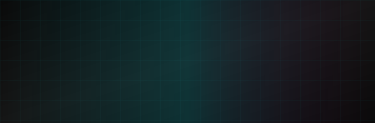
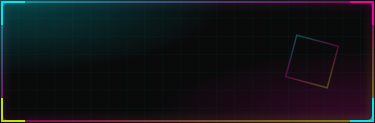
Update Apple Wallet assets with branded ShiftCard design
- Strip with gradient border, corner accents, grid pattern
- Breaking square element matching web design
- Icon with gradient border and L7 mark
- Captures the premium ShiftCard aesthetic

diff --git a/scripts/generate-apple-wallet-assets.js b/scripts/generate-apple-wallet-assets.js
@@ -1,0 +1,262 @@
+#!/usr/bin/env node
+
+/**
+ * Generate Apple Wallet image assets for ShiftCards
+ *
+ * Creates required images:
+ * - icon.png (29x29 @1x, 58x58 @2x, 87x87 @3x)
+ * - logo.png (160x50 @1x, 320x100 @2x)
+ * - strip.png (375x123 @1x, 750x246 @2x)
+ *
+ * Usage: node scripts/generate-apple-wallet-assets.js
+ */
+
+const sharp = require('sharp')
+const fs = require('fs')
+const path = require('path')
+
+// L7 Shift brand colors
+const COLORS = {
+  voidBlack: '#0A0A0A',
+  electricCyan: '#00F0FF',
+  hotMagenta: '#FF00AA',
+  acidLime: '#BFFF00',
+  white: '#FAFAFA',
+}
+
+const OUTPUT_DIR = path.join(__dirname, '../public/wallet-assets/l7')
+
+async function ensureDir(dir) {
+  if (!fs.existsSync(dir)) {
+    fs.mkdirSync(dir, { recursive: true })
+  }
+}
+
+/**
+ * Generate icon images with gradient border (L7 mark)
+ */
+async function generateIcons() {
+  const sizes = [
+    { name: 'icon.png', size: 29 },
+    { name: 'icon@2x.png', size: 58 },
+    { name: 'icon@3x.png', size: 87 },
+  ]
+
+  for (const { name, size } of sizes) {
+    const fontSize = Math.floor(size * 0.45)
+    const borderWidth = Math.max(1, Math.floor(size / 30))
+    const radius = Math.floor(size * 0.15)
+
+    const svg = `
+      <svg width="${size}" height="${size}" xmlns="http://www.w3.org/2000/svg">
+        <defs>
+          <linearGradient id="iconBorder" x1="0%" y1="0%" x2="100%" y2="100%">
+            <stop offset="0%" style="stop-color:${COLORS.electricCyan};stop-opacity:1" />
+            <stop offset="50%" style="stop-color:${COLORS.hotMagenta};stop-opacity:1" />
+            <stop offset="100%" style="stop-color:${COLORS.acidLime};stop-opacity:1" />
+          </linearGradient>
+          <linearGradient id="textGrad" x1="0%" y1="0%" x2="100%" y2="100%">
+            <stop offset="0%" style="stop-color:${COLORS.electricCyan};stop-opacity:1" />
+            <stop offset="100%" style="stop-color:${COLORS.white};stop-opacity:1" />
+          </linearGradient>
+        </defs>
+        <!-- Background -->
+        <rect width="${size}" height="${size}" fill="${COLORS.voidBlack}" rx="${radius}"/>
+        <!-- Gradient border -->
+        <rect x="${borderWidth}" y="${borderWidth}"
+              width="${size - borderWidth * 2}" height="${size - borderWidth * 2}"
+              fill="none" stroke="url(#iconBorder)" stroke-width="${borderWidth}"
+              rx="${radius - borderWidth/2}"/>
+        <!-- L7 text -->
+        <text x="${size / 2}" y="${size * 0.62}"
+              font-family="Helvetica Neue, Helvetica, Arial, sans-serif"
+              font-size="${fontSize}" font-weight="bold"
+              fill="url(#textGrad)" text-anchor="middle">L7</text>
+      </svg>
+    `
+
+    await sharp(Buffer.from(svg))
+      .png()
+      .toFile(path.join(OUTPUT_DIR, name))
+
+    console.log(`✓ Generated ${name} (${size}x${size})`)
+  }
+}
+
+/**
+ * Generate logo images (L7 SHIFT text)
+ */
+async function generateLogos() {
+  const sizes = [
+    { name: 'logo.png', width: 160, height: 50 },
+    { name: 'logo@2x.png', width: 320, height: 100 },
+  ]
+
+  for (const { name, width, height } of sizes) {
+    const fontSize = Math.floor(height * 0.45)
+    const svg = `
+      <svg width="${width}" height="${height}" xmlns="http://www.w3.org/2000/svg">
+        <text x="${width / 2}" y="${height * 0.65}"
+              font-family="Helvetica Neue, Helvetica, Arial, sans-serif"
+              font-size="${fontSize}" font-weight="bold"
+              fill="${COLORS.white}" text-anchor="middle">L7 SHIFT</text>
+      </svg>
+    `
+
+    await sharp(Buffer.from(svg))
+      .png()
+      .toFile(path.join(OUTPUT_DIR, name))
+
+    console.log(`✓ Generated ${name} (${width}x${height})`)
+  }
+}
+
+/**
+ * Generate strip images with premium ShiftCard design
+ * Includes gradient borders, corner accents, and breaking square element
+ */
+async function generateStrips() {
+  const sizes = [
+    { name: 'strip.png', width: 375, height: 123 },
+    { name: 'strip@2x.png', width: 750, height: 246 },
+  ]
+
+  for (const { name, width, height } of sizes) {
+    const borderWidth = Math.max(2, Math.floor(width / 200))
+    const cornerLength = Math.floor(width / 15)
+    const squareSize = Math.floor(height * 0.35)
+    const squareX = width - squareSize - 20
+    const squareY = height / 2
+
+    const svg = `
+      <svg width="${width}" height="${height}" xmlns="http://www.w3.org/2000/svg">
+        <defs>
+          <!-- Main gradient for border glow -->
+          <linearGradient id="borderGlow" x1="0%" y1="0%" x2="100%" y2="100%">
+            <stop offset="0%" style="stop-color:${COLORS.electricCyan};stop-opacity:1" />
+            <stop offset="50%" style="stop-color:${COLORS.hotMagenta};stop-opacity:1" />
+            <stop offset="100%" style="stop-color:${COLORS.acidLime};stop-opacity:1" />
+          </linearGradient>
+
+          <!-- Glow filter for neon effect -->
+          <filter id="glow" x="-50%" y="-50%" width="200%" height="200%">
+            <feGaussianBlur stdDeviation="${borderWidth * 2}" result="coloredBlur"/>
+            <feMerge>
+              <feMergeNode in="coloredBlur"/>
+              <feMergeNode in="SourceGraphic"/>
+            </feMerge>
+          </filter>
+
+          <!-- Corner radial glows -->
+          <radialGradient id="topLeftGlow" cx="0%" cy="0%" r="60%">
+            <stop offset="0%" style="stop-color:${COLORS.electricCyan};stop-opacity:0.25" />
+            <stop offset="100%" style="stop-color:${COLORS.electricCyan};stop-opacity:0" />
+          </radialGradient>
+          <radialGradient id="bottomRightGlow" cx="100%" cy="100%" r="60%">
+            <stop offset="0%" style="stop-color:${COLORS.hotMagenta};stop-opacity:0.2" />
+            <stop offset="100%" style="stop-color:${COLORS.hotMagenta};stop-opacity:0" />
+          </radialGradient>
+
+          <!-- Subtle grid pattern -->
+          <pattern id="grid" width="${Math.floor(width/20)}" height="${Math.floor(width/20)}" patternUnits="userSpaceOnUse">
+            <path d="M ${Math.floor(width/20)} 0 L 0 0 0 ${Math.floor(width/20)}" fill="none" stroke="${COLORS.electricCyan}" stroke-width="0.5" stroke-opacity="0.08"/>
+          </pattern>
+        </defs>
+
+        <!-- Base dark background -->
+        <rect width="100%" height="100%" fill="${COLORS.voidBlack}"/>
+
+        <!-- Corner glows for depth -->
+        <rect width="100%" height="100%" fill="url(#topLeftGlow)"/>
+        <rect width="100%" height="100%" fill="url(#bottomRightGlow)"/>
+
+        <!-- Subtle grid overlay -->
+        <rect width="100%" height="100%" fill="url(#grid)"/>
+
+        <!-- Gradient border frame with glow -->
+        <rect x="${borderWidth}" y="${borderWidth}"
+              width="${width - borderWidth * 2}" height="${height - borderWidth * 2}"
+              fill="none" stroke="url(#borderGlow)" stroke-width="${borderWidth}"
+              rx="${borderWidth * 3}" ry="${borderWidth * 3}"
+              filter="url(#glow)" opacity="0.5"/>
+
+        <!-- Corner accent lines - top left (cyan) -->
+        <path d="M ${cornerLength} ${borderWidth} L ${borderWidth} ${borderWidth} L ${borderWidth} ${cornerLength}"
+              fill="none" stroke="${COLORS.electricCyan}" stroke-width="${borderWidth}" opacity="0.9"/>
+
+        <!-- Corner accent - top right (magenta) -->
+        <path d="M ${width - cornerLength} ${borderWidth} L ${width - borderWidth} ${borderWidth} L ${width - borderWidth} ${cornerLength}"
+              fill="none" stroke="${COLORS.hotMagenta}" stroke-width="${borderWidth}" opacity="0.9"/>
+
+        <!-- Corner accent - bottom left (lime) -->
+        <path d="M ${borderWidth} ${height - cornerLength} L ${borderWidth} ${height - borderWidth} L ${cornerLength} ${height - borderWidth}"
+              fill="none" stroke="${COLORS.acidLime}" stroke-width="${borderWidth}" opacity="0.9"/>
+
+        <!-- Corner accent - bottom right (cyan) -->
+        <path d="M ${width - borderWidth} ${height - cornerLength} L ${width - borderWidth} ${height - borderWidth} L ${width - cornerLength} ${height - borderWidth}"
+              fill="none" stroke="${COLORS.electricCyan}" stroke-width="${borderWidth}" opacity="0.9"/>
+
+        <!-- Breaking square element (rotated, subtle) -->
+        <g transform="translate(${squareX}, ${squareY}) rotate(15)">
+          <rect x="${-squareSize/2}" y="${-squareSize/2}"
+                width="${squareSize}" height="${squareSize}"
+                fill="none" stroke="url(#borderGlow)" stroke-width="${borderWidth * 0.75}"
+                opacity="0.3"/>
+        </g>
+      </svg>
+    `
+
+    await sharp(Buffer.from(svg))
+      .png()
+      .toFile(path.join(OUTPUT_DIR, name))
+
+    console.log(`✓ Generated ${name} (${width}x${height})`)
+  }
+}
+
+/**
+ * Generate thumbnail (optional - for photo placeholder)
+ */
+async function generateThumbnail() {
+  const sizes = [
+    { name: 'thumbnail.png', size: 90 },
+    { name: 'thumbnail@2x.png', size: 180 },
+  ]
+
+  for (const { name, size } of sizes) {
+    const fontSize = Math.floor(size * 0.35)
+    const svg = `
+      <svg width="${size}" height="${size}" xmlns="http://www.w3.org/2000/svg">
+        <rect width="${size}" height="${size}" fill="${COLORS.voidBlack}" rx="${size * 0.1}"/>
+        <circle cx="${size / 2}" cy="${size / 2}" r="${size * 0.4}"
+                fill="none" stroke="${COLORS.electricCyan}" stroke-width="2"/>
+        <text x="${size / 2}" y="${size * 0.58}"
+              font-family="Helvetica Neue, Helvetica, Arial, sans-serif"
+              font-size="${fontSize}" font-weight="bold"
+              fill="${COLORS.electricCyan}" text-anchor="middle">KL</text>
+      </svg>
+    `
+
+    await sharp(Buffer.from(svg))
+      .png()
+      .toFile(path.join(OUTPUT_DIR, name))
+
+    console.log(`✓ Generated ${name} (${size}x${size})`)
+  }
+}
+
+async function main() {
+  console.log('\n🎴 Generating Apple Wallet assets for L7 Shift...\n')
+
+  await ensureDir(OUTPUT_DIR)
+
+  await generateIcons()
+  await generateLogos()
+  await generateStrips()
+  await generateThumbnail()
+
+  console.log('\n✅ All Apple Wallet assets generated!')
+  console.log(`📁 Output directory: ${OUTPUT_DIR}\n`)
+}
+
+main().catch(console.error)
